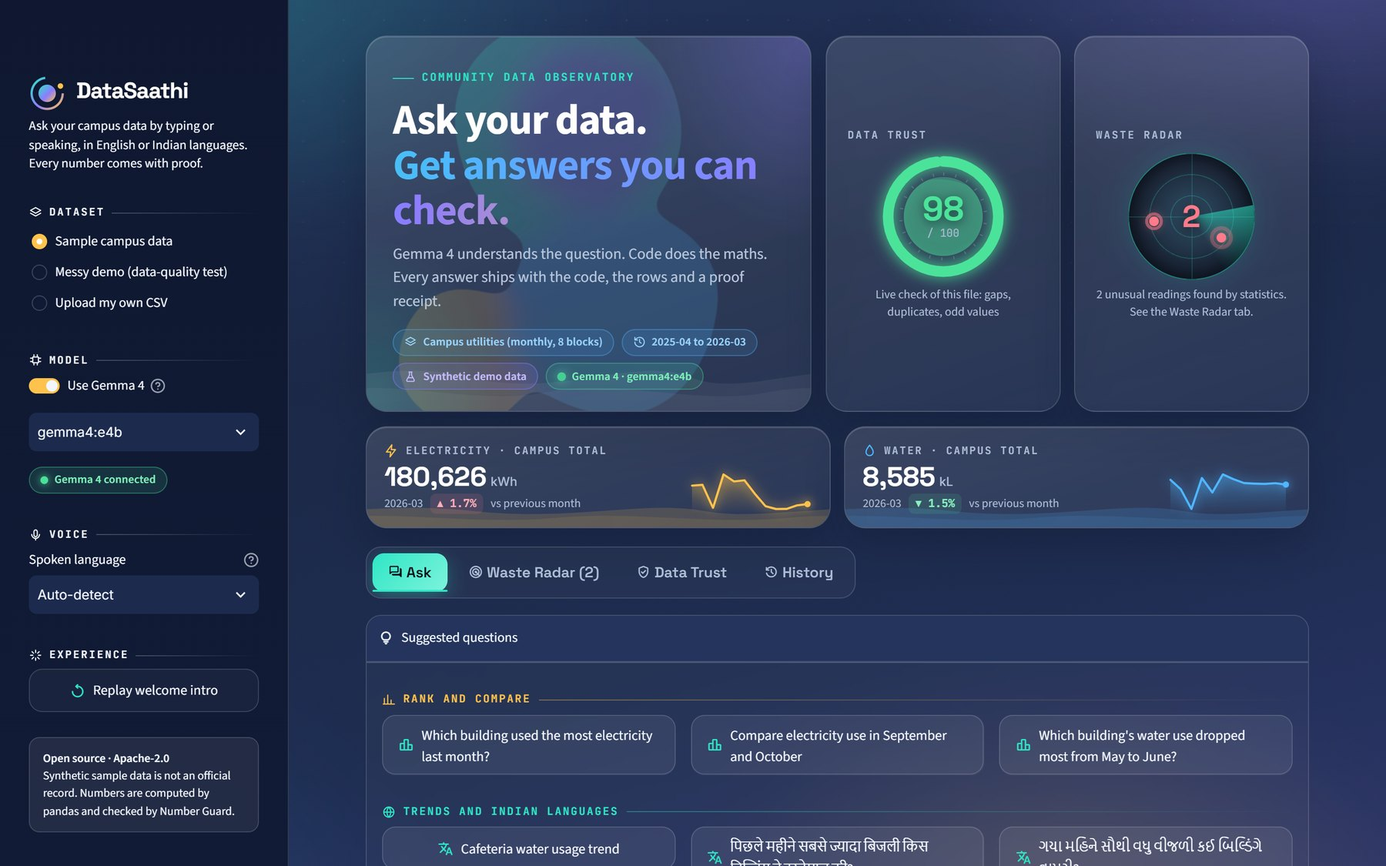
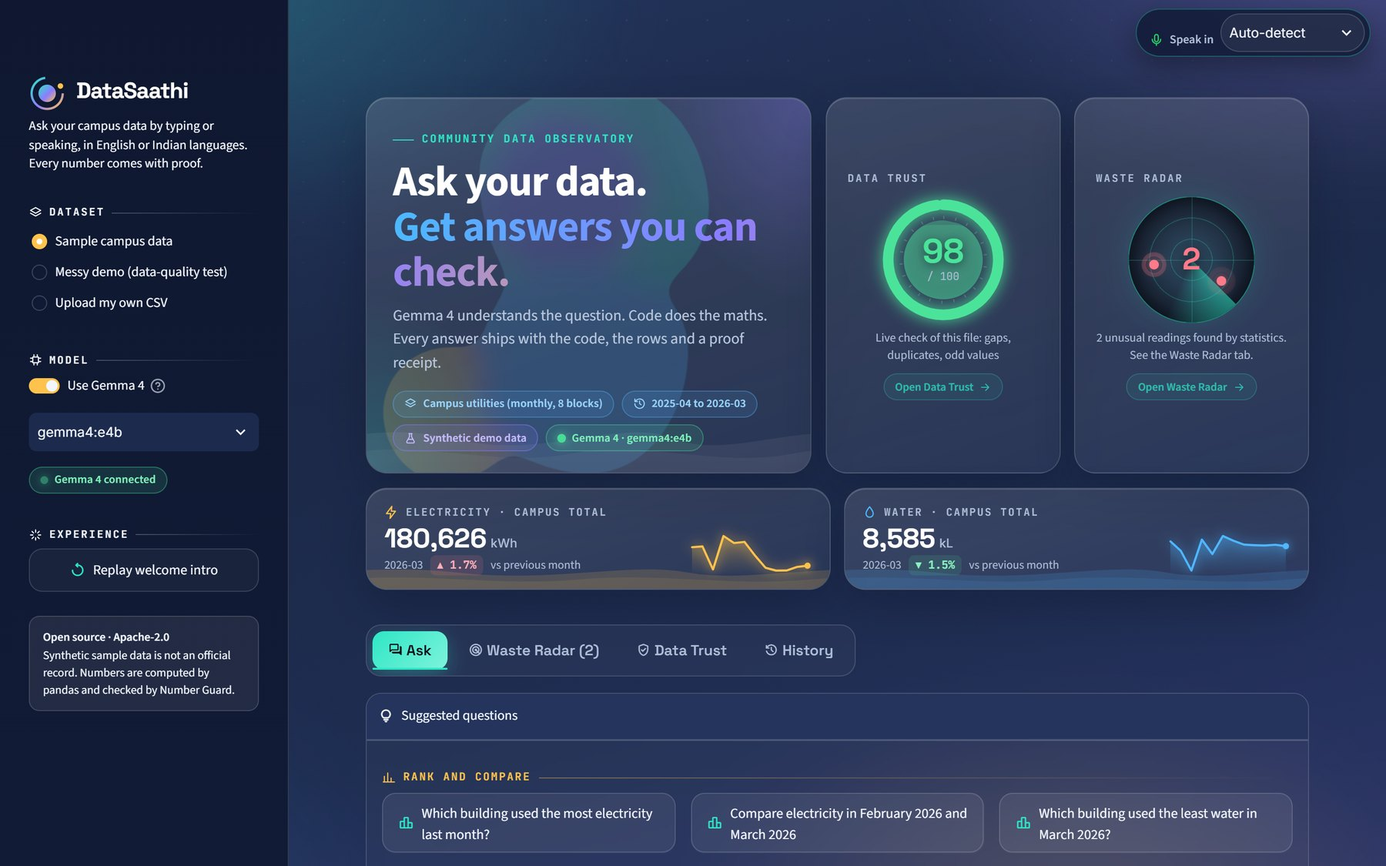
Suggested questions from the loaded data; language pill; clickable cards
- suggested questions are written from the loaded file (new suggest.py):
  its own name column, metrics, latest months, biggest user and another
  name for an average, so an uploaded CSV gets questions about itself.
  Indian-language suggestions appear only when the file has electricity or
  water columns. The fixed "Try to break it" group is removed.
- the spoken-language picker moves from the sidebar to a "Speak in" pill at
  the top-right corner (also on phones)
- the Data Trust and Waste Radar cards in the deck are clickable (mouse,
  Enter or Space) and open their tabs, with the tab bar brought to the top
- tests: every generated suggestion is answerable from the file it was
  written for, including an unrelated CSV without a Data Card
- README and design notes updated; new home screenshot

diff --git a/datasaathi/datasaathi/theme.css b/datasaathi/datasaathi/theme.css
@@ -19,7 +19,7 @@ html, body, .stApp { font-family:var(--body); color:var(--ink); }
 /* mixed "dusk" theme: a lighter slate-indigo canvas, bright glass cards, and a deep navy sidebar for contrast */
 .stApp { background:linear-gradient(165deg,#24345E 0%,#1B2846 38%,#1E2C50 70%,#2A3466 100%); background-attachment:fixed; isolation:isolate; }
 ::selection { background:rgba(46,230,197,.32); }
-.block-container { padding-top:1.3rem; max-width:1240px; }
+.block-container { padding-top:4.3rem; max-width:1240px; }   /* room for the spoken-language pill at the top right */
 h1,h2,h3,h4 { font-family:var(--display); letter-spacing:-0.02em; color:var(--ink); }
 
 /* aurora: three soft light sources drifting slowly behind everything, plus film grain */
@@ -541,3 +541,29 @@ div[data-testid="stButton"] > button[kind="primary"]::before { background:rgba(2
 [class*="st-key-vnote_"] audio { width:100%; height:38px; }
 .ask-bubble.voice .av { background:linear-gradient(135deg,var(--wa),var(--wa-d)); color:#fff; }
 .ask-bubble .l svg { width:12px; height:12px; vertical-align:-1px; margin-right:.3rem; }
+
+/* ============ clickable deck cards: Data Trust and Waste Radar open their tabs ============ */
+.inst.go { cursor:pointer; outline:none; }
+.inst.go:hover, .inst.go:focus-visible { border-color:rgba(46,230,197,.55); box-shadow:0 26px 60px rgba(0,0,0,.45), 0 0 0 1px rgba(46,230,197,.25), 0 0 34px rgba(46,230,197,.18); transform:translateY(-4px); }
+.inst.go:active { transform:translateY(-1px) scale(.99); }
+.inst .open { display:inline-flex; align-items:center; gap:.35rem; margin-top:.3rem; padding:.22rem .7rem; border-radius:999px; font-size:.74rem; font-weight:600;
+  color:var(--teal); background:rgba(46,230,197,.10); border:1px solid rgba(46,230,197,.28); opacity:.75; transition:opacity .2s, background .2s, gap .2s; }
+.inst .open svg { width:13px; height:13px; }
+.inst.go:hover .open, .inst.go:focus-visible .open { opacity:1; background:rgba(46,230,197,.18); gap:.55rem; }
+[data-testid="stTabs"] { scroll-margin-top:70px; }
+
+/* ============ spoken language: a pill fixed at the top-right corner ============ */
+.st-key-lang_corner { position:fixed !important; top:.55rem; right:1rem; z-index:1000000; width:auto !important; flex-direction:row !important;
+  align-items:center; gap:.45rem !important; padding:.25rem .3rem .25rem .8rem; border-radius:999px;
+  background:rgba(16,26,52,.82); border:1px solid rgba(46,230,197,.32); backdrop-filter:blur(14px); box-shadow:0 10px 28px rgba(0,0,0,.35); }
+.st-key-lang_corner > div { width:auto !important; margin:0 !important; }
+.st-key-lang_corner [data-testid="stElementContainer"] { width:auto !important; }
+.lang-pill { display:flex; align-items:center; gap:.4rem; color:var(--muted); font-size:.78rem; font-weight:600; white-space:nowrap; }
+.lang-pill svg { width:15px; height:15px; color:#25D366; }
+.st-key-lang_corner [data-testid="stSelectbox"] { width:150px !important; }
+.st-key-lang_corner [data-baseweb="select"] > div, .st-key-lang_corner [data-testid="stSelectbox"] [role="group"] { min-height:34px !important; border-radius:999px !important; background:rgba(255,255,255,.06) !important;
+  border-color:rgba(255,255,255,.14) !important; font-size:.85rem; }
+@media (max-width:560px) { .st-key-lang_corner { top:.45rem; right:.5rem; } .lang-pill span { display:none; }
+  .st-key-lang_corner [data-testid="stSelectbox"] { width:142px !important; } }
+.st-key-goto_js { height:0 !important; min-height:0 !important; overflow:hidden; margin:0 !important; padding:0 !important; gap:0 !important; }
+.st-key-goto_js iframe { height:0 !important; border:0; }

diff --git a/datasaathi/app.py b/datasaathi/app.py
@@ -5,7 +5,7 @@ import json
 from pathlib import Path
 import pandas as pd
 import streamlit as st
-from datasaathi import data_trust, logs, ui, voice, waste_radar
+from datasaathi import data_trust, logs, suggest, ui, voice, waste_radar
 from datasaathi.card import infer_card, load_card, load_data
 from datasaathi.charts import make_chart
 from datasaathi.pipeline import answer
@@ -23,22 +23,9 @@ if show_intro:
     intro_slot.markdown(ui.intro(st.session_state["intro_n"]), unsafe_allow_html=True)
     st.session_state["intro_seen"] = True
 
-SUGGESTIONS = {
-    "Rank and compare": ["Which building used the most electricity last month?",
-                         "Compare electricity use in September and October",
-                         "Which building's water use dropped most from May to June?"],
-    "Trends and Indian languages": ["Cafeteria water usage trend",
-                                    "पिछले महीने सबसे ज्यादा बिजली किस बिल्डिंग ने इस्तेमाल की?",
-                                    "ગયા મહિને સૌથી વધુ વીજળી કઈ બિલ્ડિંગે વાપરી?",
-                                    "கடந்த மாதம் அதிக மின்சாரம் பயன்படுத்திய கட்டிடம் எது?",
-                                    "ਪਿਛਲੇ ਮਹੀਨੇ ਸਭ ਤੋਂ ਵੱਧ ਬਿਜਲੀ ਕਿਹੜੀ ਇਮਾਰਤ ਨੇ ਵਰਤੀ?"],
-    "Try to break it": ["What is the electricity use per student?",
-                        "Show electricity usage for Library in March 2026",
-                        "Is there any waste in water use?"],
-}
-GROUP_LOOK = {"Rank and compare": ("rank", ui.AMBER, ":material/leaderboard:"),
-              "Trends and Indian languages": ("globe", ui.TEAL, ":material/translate:"),
-              "Try to break it": ("flask", ui.CORAL, ":material/science:")}
+GROUP_LOOK = {"Rank and compare": ("rank", ui.AMBER, ":material/leaderboard:"),     # suggestions are written from the loaded data
+              "Trends and totals": ("trend", ui.TEAL, ":material/show_chart:"),
+              "In your language": ("globe", ui.VIOLET, ":material/translate:")}
 
 @st.cache_resource(show_spinner=False)
 def warm_model(name: str):
@@ -80,16 +67,19 @@ with st.sidebar:
         st.markdown('<span class="chip lite">Lite mode</span>', unsafe_allow_html=True)
         st.caption("Gemma 4 was not found on this machine, so questions are planned by the built-in rule-based planner (English, Hindi and "
                    "eight other Indian languages for common phrasings). To enable Gemma 4: `ollama pull gemma4:e4b`, then refresh.")
-    st.markdown(ui.side_h("mic", "Voice"), unsafe_allow_html=True)
-    voice_lang = st.selectbox("Spoken language", list(voice.STT_LANGUAGES), help="Pick the language you will speak, or Auto-detect.")
-    if voice.available():
-        warm_voice()
     st.markdown(ui.side_h("spark", "Experience"), unsafe_allow_html=True)
     if st.button("Replay welcome intro", width="stretch", icon=":material/replay:"):
         st.session_state["intro_seen"] = False
         st.session_state["hero_seen"] = False
         st.rerun()
     st.markdown(ui.side_foot(), unsafe_allow_html=True)
+
+# spoken language for voice notes: a small pill fixed at the top-right corner (drawn on every run, so nothing below shifts)
+with st.container(key="lang_corner"):
+    st.markdown(ui.lang_label(), unsafe_allow_html=True)
+    voice_lang = st.selectbox("Spoken language", list(voice.STT_LANGUAGES), key="voice_lang", label_visibility="collapsed")
+if voice.available():
+    warm_voice()
 
 
 @st.cache_data(show_spinner=False)
@@ -157,6 +147,8 @@ animate_hero = not st.session_state.get("hero_seen")      # count-up and entranc
 st.session_state["hero_seen"] = True
 st.markdown(ui.hero(card.name, card.synthetic, card.period, trust.overall, findings, mode_text, bool(use_gemma), kpis=campus_kpis(df, card),
                     animate=animate_hero, delay=4.4 if show_intro else 0.0), unsafe_allow_html=True)
+with st.container(key="goto_js"):          # hidden: lets the Data Trust and Waste Radar cards open their tabs
+    st.iframe(ui.goto_script(), height=1)
 st.session_state.setdefault("history", [])
 
 
@@ -219,7 +211,7 @@ with tab_ask:
     # a new key after every answer: Streamlit would otherwise keep the panel open, showing the suggestions again above the answer
     with st.expander("Suggested questions" if not history else "Ask something else", expanded=not history, icon=":material/lightbulb:",
                      key=f"suggest{len(history)}"):
-        for gi, (label, items) in enumerate(SUGGESTIONS.items()):
+        for gi, (label, items) in enumerate(suggest.suggestions(df, card).items()):
             ic, col, mat = GROUP_LOOK[label]
             st.markdown(ui.group_label(ic, label, col), unsafe_allow_html=True)
             per_row = 3
@@ -268,8 +260,8 @@ with tab_ask:
             scroll_to(".st-key-latest .ask-bubble", "start")
     else:
         st.markdown(ui.empty_state("Pick a question above, speak, or type your own.",
-                                   "Try one from “Try to break it” to see what happens when the data cannot answer: the app refuses instead of guessing.",
-                                   "chat"), unsafe_allow_html=True)
+                                   "The suggestions are written from your data. If a question needs something the file does not have, "
+                                   "the app says so instead of guessing.", "chat"), unsafe_allow_html=True)
 
 # ---------------- Waste Radar ----------------
 with tab_radar:

diff --git a/datasaathi/datasaathi/ui.py b/datasaathi/datasaathi/ui.py
@@ -35,6 +35,7 @@ _ICONS = {
     "list": "M8 6h13M8 12h13M8 18h13M3 6h.01M3 12h.01M3 18h.01",
     "receipt": "M5 3h14v18l-3-2-2 2-2-2-2 2-2-2-3 2zM9 8h6M9 12h6",
     "rank": "M4 20V10M10 20V4M16 20v-7M22 20H2",
+    "arrow": "M5 12h14M13 6l6 6-6 6",
 }
 
 
@@ -184,12 +185,13 @@ def hero(card_name: str, synthetic: bool, period: str, trust: int, findings, mod
              '<p>Gemma 4 understands the question. Code does the maths. Every answer ships with the code, the rows and a proof receipt.</p>'
              f'<div class="chips"><span class="chip info">{icon("layers")}{e(card_name)}</span>'
              f'<span class="chip info">{icon("history")}{e(period)}</span>{syn}{mchip}</div></div>')
-    gauge = ('<div class="glass inst" style="--i:1" title="Computed live from the loaded dataset: completeness, month gaps, duplicates, impossible values '
-             f'and likely typos. A different file gives a different score."><div class="k">Data trust</div>{ring(trust)}'
-             f'<div class="s">{trust_note}</div></div>')
-    radar = ('<div class="glass inst" style="--i:2" title="Statistical check of every building against its own history and the campus-wide pattern.">'
+    gauge = ('<div class="glass inst go" data-goto="Data Trust" role="button" tabindex="0" style="--i:1" title="Open the Data Trust tab: '
+             f'completeness, month gaps, duplicates, impossible values and likely typos, computed from the loaded file."><div class="k">Data trust</div>{ring(trust)}'
+             f'<div class="s">{trust_note}</div><div class="open">Open Data Trust {icon("arrow")}</div></div>')
+    radar = ('<div class="glass inst go" data-goto="Waste Radar" role="button" tabindex="0" style="--i:2" title="Open the Waste Radar tab: every building '
+             'checked against its own history and the campus-wide pattern.">'
              f'<div class="k">Waste radar</div>{scope(findings)}'
-             f'<div class="s">{radar_note}</div></div>')
+             f'<div class="s">{radar_note}</div><div class="open">Open Waste Radar {icon("arrow")}</div></div>')
     strip = f'<div class="kpis">{"".join(kpi_tile(k, j) for j, k in enumerate(kpis or []))}</div>' if kpis else ""
     return f'<div class="deck{"" if animate else " still"}" style="--d0:{delay}s">{title}{gauge}{radar}{strip}</div>'
 
@@ -318,6 +320,29 @@ def scroll_script(selector: str, block: str = "start", nonce: int = 0) -> str:
             f'el.scrollIntoView({{behavior:"smooth",block:{block!r}}});'
             f'setTimeout(function(){{if(Math.abs(el.getBoundingClientRect().top-y0)<2)el.scrollIntoView({{block:{block!r}}});}},700);}}}},100);}})();</script>'
             f'<!-- {nonce} -->')
+
+
+def goto_script() -> str:
+    """Installed once per page in a hidden iframe: a click (or Enter / Space) on an element with data-goto="Tab name" opens that tab
+    and brings the tab bar to the top. The bar is re-checked a few times because the newly shown tab can still be drawing (charts)
+    and push the page while it scrolls. Fixed text from our code; it only reads the page and clicks the tab button."""
+    return ("<script>(function(){const w=window.parent,d=w.document;if(w.__dsGoto)return;w.__dsGoto=true;"
+            "function scroller(){return d.querySelector('[data-testid=stMain]')||d.scrollingElement;}"
+            "function go(card){const name=card.getAttribute('data-goto');"
+            "const tab=[...d.querySelectorAll('[role=tab]')].find(function(t){return t.innerText.indexOf(name)>-1;});"
+            "if(!tab)return;tab.click();const bar=tab.closest('[data-testid=stTabs]')||tab;"
+            "const target=function(s){return s.scrollTop+bar.getBoundingClientRect().top-70;};"
+            "setTimeout(function(){const s=scroller();s.scrollTo({top:target(s),behavior:'smooth'});},40);"
+            "[450,900,1500].forEach(function(t){setTimeout(function(){const s=scroller();"
+            "if(Math.abs(bar.getBoundingClientRect().top-70)>30)s.scrollTop=target(s);},t);});}"
+            "d.addEventListener('click',function(e){const c=e.target.closest&&e.target.closest('[data-goto]');if(c)go(c);});"
+            "d.addEventListener('keydown',function(e){if(e.key!=='Enter'&&e.key!==' ')return;"
+            "const c=e.target.closest&&e.target.closest('[data-goto]');if(c){e.preventDefault();go(c);}});})();</script>")
+
+
+def lang_label() -> str:
+    return (f'<div class="lang-pill" title="The language you will speak in voice notes. Auto-detect works for most questions; '
+            f'picking the language improves accuracy for Indian languages.">{icon("mic")}<span>Speak in</span></div>')
 
 
 def listening() -> str:

diff --git a/datasaathi/datasaathi/suggest.py b/datasaathi/datasaathi/suggest.py
@@ -1,0 +1,83 @@
+"""Suggested questions written from the loaded data: its own entity names, metrics and months, so an uploaded CSV gets
+questions about that file, not about the sample campus."""
+from __future__ import annotations
+import pandas as pd
+from .card import Card
+
+UNIT_WORDS = {"kwh", "mwh", "kw", "kl", "l", "m3", "kg", "t", "units", "litres", "liters", "tonnes", "rs", "inr"}
+USAGE_WORDS = ("electric", "power", "energy", "kwh", "water", "gas", "fuel", "diesel")
+# Indian-language questions the planners understand; only offered when the data has that kind of metric
+NATIVE = {
+    "electric": ["पिछले महीने सबसे ज्यादा बिजली किस बिल्डिंग ने इस्तेमाल की?",
+                 "ગયા મહિને સૌથી વધુ વીજળી કઈ બિલ્ડિંગે વાપરી?",
+                 "கடந்த மாதம் அதிக மின்சாரம் பயன்படுத்திய கட்டிடம் எது?",
+                 "ਪਿਛਲੇ ਮਹੀਨੇ ਸਭ ਤੋਂ ਵੱਧ ਬਿਜਲੀ ਕਿਹੜੀ ਇਮਾਰਤ ਨੇ ਵਰਤੀ?"],
+    "water": ["पिछले महीने सबसे ज्यादा पानी किसने इस्तेमाल किया?"],
+}
+
+
+def metric_label(card: Card, m: str) -> str:
+    """Plain words for a metric: the Data Card label, without a trailing unit ("Water Kl" -> "water")."""
+    words = str(card.metrics.get(m, {}).get("label", m)).replace("_", " ").split()
+    while len(words) > 1 and words[-1].lower() in UNIT_WORDS:
+        words.pop()
+    return " ".join(words).lower()
+
+
+def entity_word(card: Card) -> str:
+    """The thing each row describes, from the entity column name ("building", "block", "ward_name" -> "ward")."""
+    w = str(card.entity_column).replace("_", " ").strip().lower()
+    for tail in (" name", " id", " code"):
+        w = w[: -len(tail)] if w.endswith(tail) else w
+    return w.split()[-1] if w else "entity"
+
+
+def month_name(ym: str) -> str:
+    try:
+        return pd.Timestamp(f"{ym}-01").strftime("%B %Y")
+    except (ValueError, TypeError):
+        return str(ym)
+
+
+def _kind(card: Card, m: str) -> str | None:
+    s = f"{m} {card.metrics.get(m, {}).get('label', '')}".lower()
+    return "water" if "water" in s else "electric" if any(k in s for k in ("electric", "kwh", "power", "energy")) else None
+
+
+def suggestions(df: pd.DataFrame, card: Card) -> dict[str, list[str]]:
+    """Grouped questions for this dataset. Every number they lead to is still computed by the engine; these are only prompts."""
+    E, T = card.entity_column, card.time_column
+    metrics = [m for m in card.metrics if m in df.columns]
+    if not metrics or E not in df.columns or T not in df.columns:
+        return {}
+    m1 = metrics[0]
+    m2 = metrics[1] if len(metrics) > 1 else m1
+    l1, l2 = metric_label(card, m1), metric_label(card, m2)
+    ent = entity_word(card)
+    months = sorted(str(x) for x in df[T].dropna().unique())
+    totals = df.groupby(E)[m1].sum(min_count=1).dropna().sort_values(ascending=False)
+    names = [str(n) for n in totals.index]
+    used = lambda m: any(k in f"{m} {card.metrics.get(m, {}).get('label', '')}".lower() for k in USAGE_WORDS)
+    most = "used the most" if used(m1) else "had the highest"
+    least = "used the least" if used(m2) else "had the lowest"
+
+    rank = [f"Which {ent} {most} {l1} last month?"]
+    if len(months) > 1:
+        rank.append(f"Compare {l1} in {month_name(months[-2])} and {month_name(months[-1])}")
+    if months:
+        rank.append(f"Which {ent} {least} {l2} in {month_name(months[-1])}?")
+
+    trends = []
+    if names:
+        trends.append(f"{names[0]} {l1} trend")
+    if months:
+        trends.append(f"What was the total {l2} in {month_name(months[-1])}?")
+    if len(names) > 1:
+        trends.append(f"Average monthly {l1} of {names[1]}")
+
+    native: list[str] = []
+    for kind in dict.fromkeys(k for k in (_kind(card, m) for m in metrics) if k):
+        native += NATIVE[kind]
+
+    groups = {"Rank and compare": rank, "Trends and totals": trends, "In your language": native}
+    return {k: v for k, v in groups.items() if v}

diff --git a/datasaathi/tests/test_features.py b/datasaathi/tests/test_features.py
@@ -213,3 +213,26 @@ def test_real_audio_path_reaches_whisper_vad_without_error():
     from datasaathi import voice
     a = voice.wav_to_audio(_wav(48000, 1, 2.0))
     get_speech_timestamps(a, VadOptions())              # raises if the array is the wrong type or shape
+
+
+def test_suggestions_are_written_from_the_loaded_data():
+    import io
+    import pandas as pd
+    from datasaathi.card import infer_card
+    from datasaathi.suggest import suggestions
+    df, card = ds("campus_utilities")
+    groups = suggestions(df, card)
+    assert "Try to break it" not in groups and set(groups) == {"Rank and compare", "Trends and totals", "In your language"}
+    assert any("2026" in q for q in groups["Rank and compare"])                      # the file's own months
+    assert any(q.startswith(str(n)) for n in df[card.entity_column].unique() for q in groups["Trends and totals"])
+    # an unrelated CSV without a Data Card: its own words, no electricity/water questions in Indian languages
+    rows = [f"Ward {w},2024-{m:02d},{40 + w * 7 + m},{w + m % 3}" for w in range(1, 5) for m in range(1, 13)]
+    csv = "ward_name,month,garbage_tonnes,complaints\n" + "\n".join(rows)
+    card2 = infer_card(pd.read_csv(io.StringIO(csv)))
+    df2 = load_data(io.StringIO(csv), card2)
+    g2 = suggestions(df2, card2)
+    qs = [q for v in g2.values() for q in v]
+    assert "In your language" not in g2 and any("ward" in q and "garbage" in q for q in qs) and any("December 2024" in q for q in qs)
+    for q in qs:                                                                      # every suggestion is answerable from that file
+        a = answer(q, df2, card2, use_gemma=False)
+        assert a.status == "answered", q

diff --git a/datasaathi/tests/test_app.py b/datasaathi/tests/test_app.py
@@ -11,7 +11,7 @@ def _ask(at, label):
 def test_ask_tab_shows_only_the_latest_answer_and_history_keeps_all():
     at = AppTest.from_file(str(Path(__file__).resolve().parents[1] / "app.py"), default_timeout=90).run()
     assert not at.exception
-    for label in ("most electricity", "per student", "Cafeteria water usage"):
+    for label in ("most electricity", "Compare electricity", "electricity trend"):
         _ask(at, label)
         assert not at.exception
     assert len(at.session_state.history) == 3

diff --git a/README.md b/README.md
@@ -104,7 +104,7 @@ The Docker files are provided but have not been tested end to end by the author.
 4. **Unavailable statistic.** *What is the electricity use per student?* The app refuses: there is no headcount in the data.
 5. **Missing observation.** *Show electricity usage for Library in March 2026.*
 6. **Indian languages.** *पिछले महीने सबसे ज्यादा बिजली किस बिल्डिंग ने इस्तेमाल की?* (Hindi), or the Gujarati, Tamil and Punjabi suggestions. Or tap the green **mic** in the question bar and speak.
-7. **Unasked problems.** *Is there any waste in water use?* or open the **Waste Radar** tab. Girls Hostel stays near full load in the June vacation.
+7. **Unasked problems.** *Is there any waste in water use?* or click the **Waste Radar** card at the top (or its tab). Girls Hostel stays near full load in the June vacation.
 8. **Bad data.** Switch to *Messy demo* and watch the Data Trust score fall and answers carry warnings.
 9. **New data.** Choose *Upload my own CSV* and upload `data/campus_demo_upload.csv` with `data/campus_demo_upload.card.yaml`. It has different columns and names, and a hidden water leak. Questions are in `docs/UPLOAD_DEMO_QUESTIONS.txt`.
 
@@ -145,7 +145,7 @@ The Docker files are provided but have not been tested end to end by the author.
 pip install -r requirements-voice.txt                    # optional; the Colab notebook does this for you
 DATASAATHI_STT_MODEL=small streamlit run app.py          # tiny/base for small laptops, small/medium for better Indian-language accuracy
 ```
-Choose the language you will speak in the sidebar (or leave it on Auto-detect). Microphone access works on `localhost` and `https` links (including the Colab tunnel link).
+Choose the language you will speak in the **Speak in** pill at the top-right corner (or leave it on Auto-detect). Microphone access works on `localhost` and `https` links (including the Colab tunnel link).
 
 Limits, stated plainly: the keyword lists were written carefully but are not reviewed by native speakers; speech accuracy varies by language and model size; building names spoken in a non-Latin script may not match the English names in the data unless Gemma 4 maps them; and the voice path was tested with a stand-in model, not yet with real recordings.
 
@@ -203,6 +203,7 @@ Each question replaces the previous answer on the Ask tab, so the page stays sho
 - every answer as a card with a rotating **Number Guard seal** (green when every figure was verified, red when the app refused), the five-step pipeline trace, a restyled chart (shaded ranking bars, a smooth trend with the peak marked) and the printed **Proof Receipt** with a VERIFIED / REFUSED stamp;
 - incident cards in Waste Radar (actual against expected), ring gauges and an issue timeline in Data Trust, a question timeline in History;
 - the page **scrolls itself** to the running analysis when you ask, and to the answer when it is ready;
+- the **Data Trust** and **Waste Radar** cards in the deck are clickable and open their tabs;
 - **voice like WhatsApp**: a green mic in the question bar; record, ✓ to send or ✕ to delete; a loader while speech becomes text; then your question shows as a voice-note bubble you can replay, and the answer follows.
 
 On first open, a short **welcome curtain** ("HACKTOBER | FEST" written across two curtains that part to reveal the app) plays once per session and covers the whole window, sidebar included. Add `?intro=0` to the address to skip it, or press **Replay welcome intro** in the sidebar.
@@ -279,6 +280,8 @@ metrics:
 not_available: [students / occupancy, cost / tariff]   # what the dataset does NOT contain
 ```
 Data is treated as monthly. Daily readings should be summed to months first. Without a Data Card the app builds a basic one and warns that the source is not verified.
+
+**Suggested questions follow your file** (`datasaathi/suggest.py`). They are written from the loaded data: its own name column ("Which *block* used the most electricity last month?"), its metrics, its latest months ("Compare electricity in August 2026 and September 2026"), its biggest user ("Main Academic Building electricity trend") and another of its names for an average. Questions in Hindi, Gujarati, Tamil and Punjabi appear only when the file has electricity or water columns, which those phrasings cover. Every suggestion is checked in the tests to be answerable from the file it was written for.
 
 ---
 

diff --git a/datasaathi/README.md b/datasaathi/README.md
@@ -104,7 +104,7 @@ The Docker files are provided but have not been tested end to end by the author.
 4. **Unavailable statistic.** *What is the electricity use per student?* The app refuses: there is no headcount in the data.
 5. **Missing observation.** *Show electricity usage for Library in March 2026.*
 6. **Indian languages.** *पिछले महीने सबसे ज्यादा बिजली किस बिल्डिंग ने इस्तेमाल की?* (Hindi), or the Gujarati, Tamil and Punjabi suggestions. Or tap the green **mic** in the question bar and speak.
-7. **Unasked problems.** *Is there any waste in water use?* or open the **Waste Radar** tab. Girls Hostel stays near full load in the June vacation.
+7. **Unasked problems.** *Is there any waste in water use?* or click the **Waste Radar** card at the top (or its tab). Girls Hostel stays near full load in the June vacation.
 8. **Bad data.** Switch to *Messy demo* and watch the Data Trust score fall and answers carry warnings.
 9. **New data.** Choose *Upload my own CSV* and upload `data/campus_demo_upload.csv` with `data/campus_demo_upload.card.yaml`. It has different columns and names, and a hidden water leak. Questions are in `docs/UPLOAD_DEMO_QUESTIONS.txt`.
 
@@ -145,7 +145,7 @@ The Docker files are provided but have not been tested end to end by the author.
 pip install -r requirements-voice.txt                    # optional; the Colab notebook does this for you
 DATASAATHI_STT_MODEL=small streamlit run app.py          # tiny/base for small laptops, small/medium for better Indian-language accuracy
 ```
-Choose the language you will speak in the sidebar (or leave it on Auto-detect). Microphone access works on `localhost` and `https` links (including the Colab tunnel link).
+Choose the language you will speak in the **Speak in** pill at the top-right corner (or leave it on Auto-detect). Microphone access works on `localhost` and `https` links (including the Colab tunnel link).
 
 Limits, stated plainly: the keyword lists were written carefully but are not reviewed by native speakers; speech accuracy varies by language and model size; building names spoken in a non-Latin script may not match the English names in the data unless Gemma 4 maps them; and the voice path was tested with a stand-in model, not yet with real recordings.
 
@@ -203,6 +203,7 @@ Each question replaces the previous answer on the Ask tab, so the page stays sho
 - every answer as a card with a rotating **Number Guard seal** (green when every figure was verified, red when the app refused), the five-step pipeline trace, a restyled chart (shaded ranking bars, a smooth trend with the peak marked) and the printed **Proof Receipt** with a VERIFIED / REFUSED stamp;
 - incident cards in Waste Radar (actual against expected), ring gauges and an issue timeline in Data Trust, a question timeline in History;
 - the page **scrolls itself** to the running analysis when you ask, and to the answer when it is ready;
+- the **Data Trust** and **Waste Radar** cards in the deck are clickable and open their tabs;
 - **voice like WhatsApp**: a green mic in the question bar; record, ✓ to send or ✕ to delete; a loader while speech becomes text; then your question shows as a voice-note bubble you can replay, and the answer follows.
 
 On first open, a short **welcome curtain** ("HACKTOBER | FEST" written across two curtains that part to reveal the app) plays once per session and covers the whole window, sidebar included. Add `?intro=0` to the address to skip it, or press **Replay welcome intro** in the sidebar.
@@ -279,6 +280,8 @@ metrics:
 not_available: [students / occupancy, cost / tariff]   # what the dataset does NOT contain
 ```
 Data is treated as monthly. Daily readings should be summed to months first. Without a Data Card the app builds a basic one and warns that the source is not verified.
+
+**Suggested questions follow your file** (`datasaathi/suggest.py`). They are written from the loaded data: its own name column ("Which *block* used the most electricity last month?"), its metrics, its latest months ("Compare electricity in August 2026 and September 2026"), its biggest user ("Main Academic Building electricity trend") and another of its names for an average. Questions in Hindi, Gujarati, Tamil and Punjabi appear only when the file has electricity or water columns, which those phrasings cover. Every suggestion is checked in the tests to be answerable from the file it was written for.
 
 ---
 

diff --git a/datasaathi/docs/UI_REDESIGN_PLAN.md b/datasaathi/docs/UI_REDESIGN_PLAN.md
@@ -75,7 +75,9 @@ Interface:
   a loader while Whisper transcribes (preloaded at start), then a replayable voice-note bubble next to the question;
 - the suggestions panel collapses after every answer (a new expander key per question), so it is not shown twice;
 - the welcome curtain covers the whole window even with the sidebar open, and "Replay welcome intro" restarts it;
-- no version label on screen.
+- no version label on screen;
+- the spoken-language picker is a pill at the top-right corner; the Data Trust and Waste Radar cards open their tabs;
+- suggested questions are written from the loaded file (`suggest.py`), and the fixed "Try to break it" group is gone.
 
 Outside the visual layer (each with a test or an evaluation run):
 - **speed:** Gemma 4 calls use `think: false` and `keep_alive: 30m`, and the model is warmed up in the background
